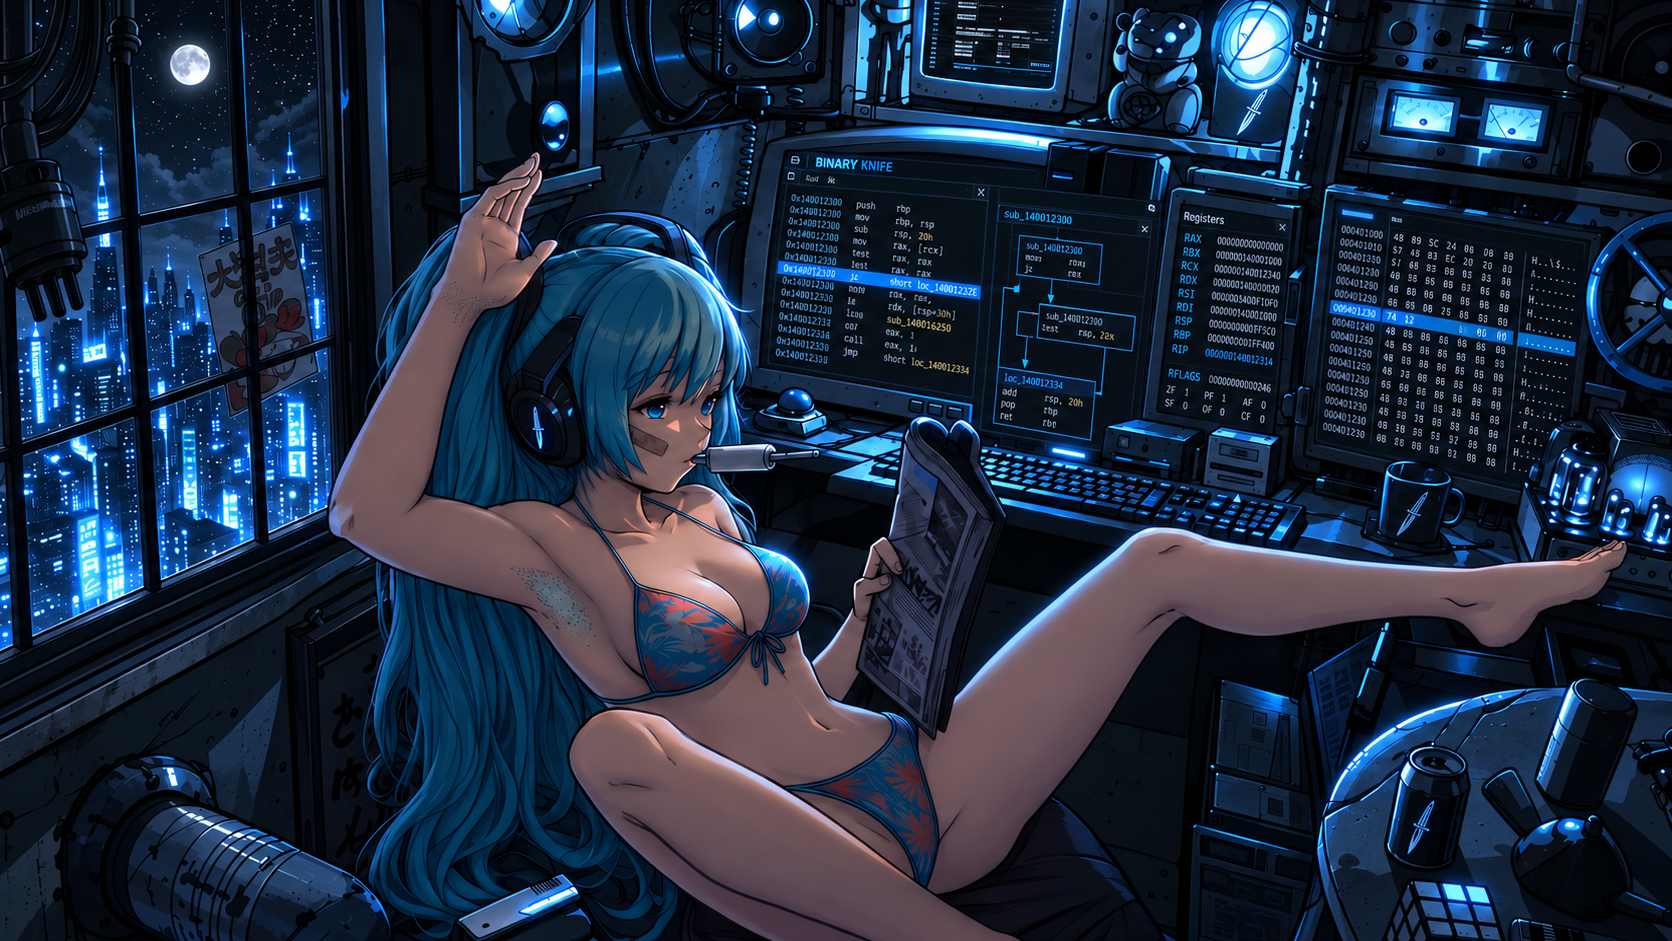
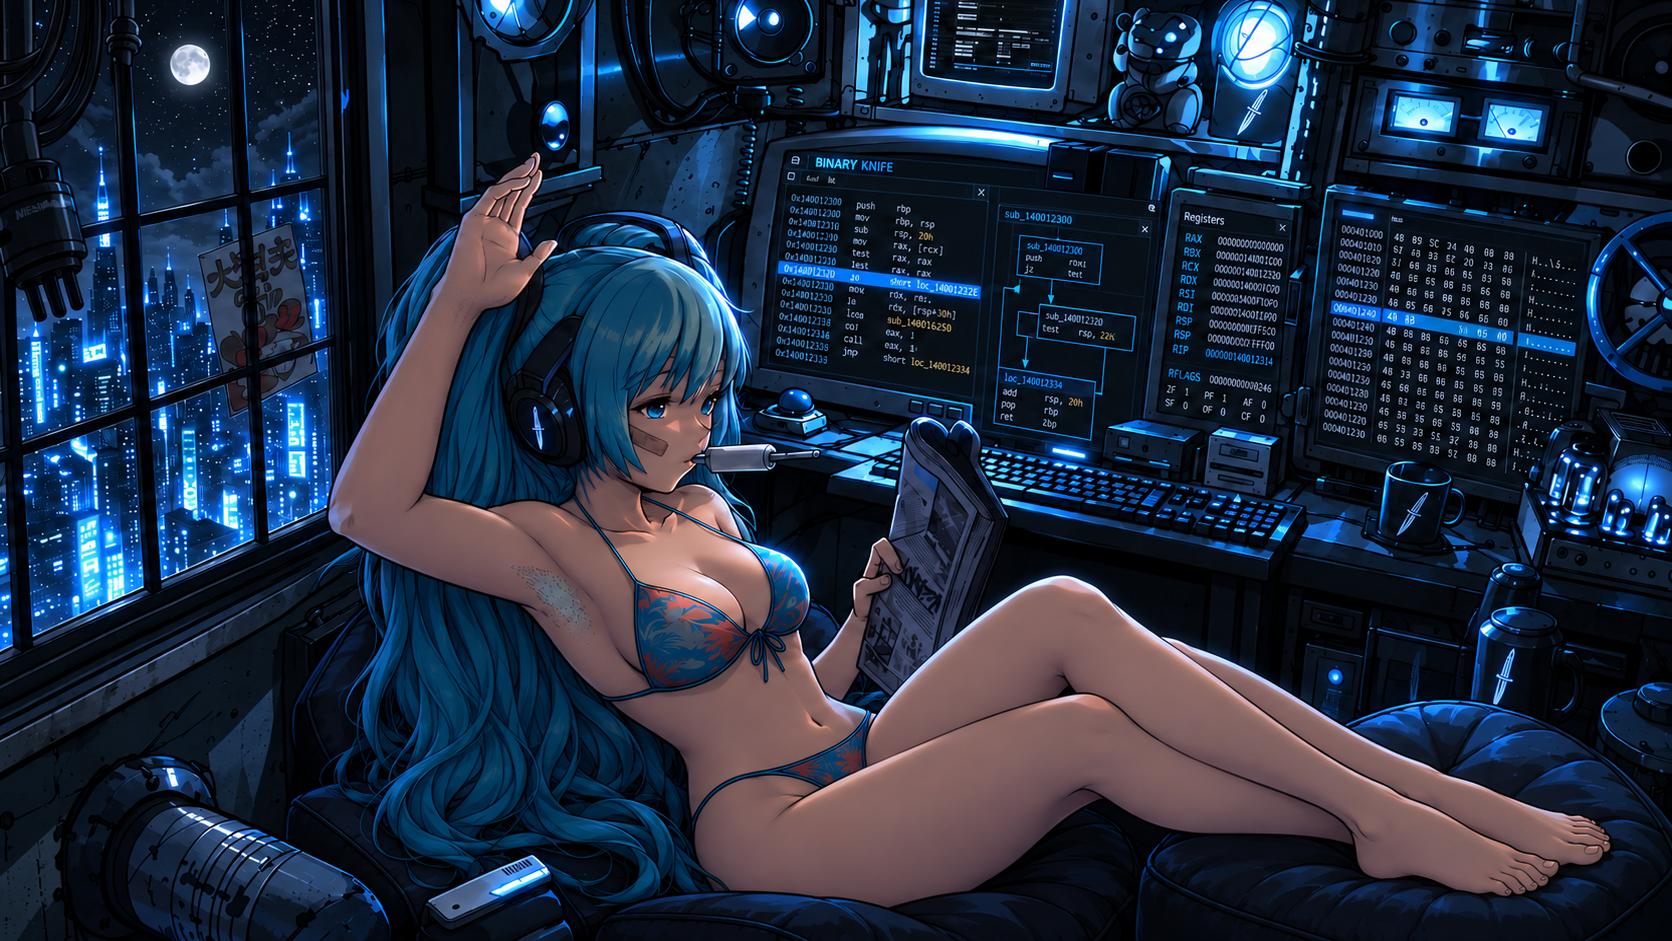
Refresh all four themes with unique corrected wallpaper sets

diff --git a/config/hypr/theme/test_theme_sets.py b/config/hypr/theme/test_theme_sets.py
@@ -21,7 +21,7 @@ class ThemeSetTests(unittest.TestCase):
     def setUp(self):
         test_theme.ThemeTransactionTests.setUp(self)
         root=self.root/'wallpaper';root.mkdir()
-        catalog={design:[f'{design}/{i}.png' for i in range(3)] for design in ('breakpoint','binaryknife')}
+        catalog={design:[f'{design}/{i}.png' for i in range(3)] for design in ('raw','modern','breakpoint','binaryknife')}
         (root/'sets.json').write_text(json.dumps(catalog))
         for design,names in catalog.items():
             for name in names:
@@ -68,6 +68,31 @@ class ThemeSetTests(unittest.TestCase):
         ]
         assigned=wallpaper_sets.bundled(self.root/'wallpaper','binaryknife',monitors)
         self.assertEqual(list(assigned),['DP-1','DP-2','DP-3'])
+
+    def test_each_theme_restores_its_own_three_screen_set(self):
+        for design in ('raw','modern','breakpoint','binaryknife','raw'):
+            self.apply(design)
+            selection=json.loads((self.root/'wallpaper/selection.json').read_text())
+            self.assertEqual({item['path'] for item in selection.values()},
+                             {str(self.root/'wallpaper'/design/f'{i}.png') for i in range(3)})
+
+    def test_refreshed_bundle_takes_precedence_over_stale_import_cache(self):
+        root=self.root/'wallpaper'
+        cached=self.root/'old-cache.png';Image.new('RGB',(16,9),'red').save(cached)
+        saved=copy.deepcopy(self.original)
+        saved['DP-1']['path']=str(cached)
+        (root/'profiles.json').write_bytes(wallpaper_sets.encode({'version':1,'themes':{'breakpoint':saved}}))
+        target,_=wallpaper_sets.switching(root,'raw','breakpoint',{},self.monitors)
+        self.assertEqual(target['DP-1'],self.original['DP-1'])
+
+    def test_custom_wallpaper_still_prefers_its_cache(self):
+        root=self.root/'wallpaper'
+        cached=self.root/'custom-cache.png';Image.new('RGB',(16,9),'blue').save(cached)
+        original=self.root/'personal.png';Image.new('RGB',(16,9),'red').save(original)
+        choice={'path':str(cached),'original':str(original),'fit':'contain'}
+        (root/'profiles.json').write_bytes(wallpaper_sets.encode({'version':1,'themes':{'modern':{'DP-1':choice}}}))
+        target,_=wallpaper_sets.switching(root,'raw','modern',{},self.monitors)
+        self.assertEqual(target['DP-1'],choice)
 
     def test_round_trip_restores_custom_wallpapers_and_effect_colors(self):
         self.apply('binaryknife')

diff --git a/installer/install.py b/installer/install.py
@@ -84,14 +84,23 @@ def render(stage, home, monitors, profile='auto', startup=True):
         (stage/'control_center/workspaces.conf').write_text('\n'.join(lines)+'\n')
     choice=json.loads((stage/'wallpaper/default.json').read_text())
     wallpaper=str(target/'wallpaper'/choice['image'])
-    outputs=[m['name'] for m in active]
+    design=json.loads((stage/'theme/state.json').read_text()).get('design','modern')
+    sets=json.loads((stage/'wallpaper/sets.json').read_text())
+    artwork=sets.get(design,[choice['image']])
+    if not artwork or not all((stage/'wallpaper'/name).is_file() for name in artwork):
+        raise ValueError('The default theme wallpaper set is incomplete.')
+    outputs=[m['name'] for m in sorted(active,key=lambda m:(m.get('x',0),m.get('y',0),m['name']))]
     if profile=='original':outputs=list(json.loads((REPO/'profiles/xetal-original/selection.json').read_text()))
-    selection={name:{'path':wallpaper,'original':wallpaper,'fit':choice['fit']} for name in outputs}
+    selection={}
+    for index,name in enumerate(outputs):
+        path=str(target/'wallpaper'/artwork[index%len(artwork)])
+        selection[name]={'path':path,'original':path,'fit':choice['fit']}
     (stage/'wallpaper/selection.json').write_text(json.dumps(selection,indent=2)+'\n')
     # The wildcard also covers outputs connected after installation.
     lines=['ipc = true','splash = false','']
     for name in ['',*outputs]:
-        lines+=['wallpaper {',f'    monitor = {name}',f'    path = {wallpaper}',f'    fit_mode = {choice["fit"]}','}','']
+        path=selection[name]['path'] if name else wallpaper
+        lines+=['wallpaper {',f'    monitor = {name}',f'    path = {path}',f'    fit_mode = {choice["fit"]}','}','']
     (stage/'wallpaper/hyprpaper.conf').write_text('\n'.join(lines))
     if not startup:
         p=stage/'hyprland.conf';p.write_text(p.read_text().replace('exec-once = ~/.config/hypr/scripts/startup-scene.sh --login','# Login animation disabled by installer; Super+D remains available.'))

diff --git a/config/hypr/theme/wallpaper_sets.py b/config/hypr/theme/wallpaper_sets.py
@@ -58,14 +58,18 @@ def switching(root, previous_design, design, current, monitors):
     saved = value['themes'].get(design, {})
     if not isinstance(saved, dict): raise ValueError('The saved theme wallpaper selection is invalid.')
     defaults = bundled(root, design, monitors)
+    bundled_paths = {path.resolve() for path in catalog(root).get(design, [])}
     target = copy.deepcopy(saved)
     for monitor in screens(monitors):
         name = monitor['name']
         choice = saved.get(name, {})
         if not isinstance(choice, dict): raise ValueError('Invalid saved wallpaper choice.')
-        # Cached images are portable within this profile; retain the original as
-        # a fallback if a cache entry was removed manually.
-        available = next((choice.get(key) for key in ('path', 'original')
+        # Bundled artwork can be refreshed by an update. Do not resurrect an old
+        # imported copy of it; personal images still prefer their portable cache.
+        original = choice.get('original')
+        bundled_original = isinstance(original, str) and Path(original).resolve() in bundled_paths
+        order = ('original', 'path') if bundled_original else ('path', 'original')
+        available = next((choice.get(key) for key in order
                           if isinstance(choice.get(key), str) and Path(choice[key]).is_file()), None)
         if available:
             target[name] = {**choice, 'path': available}

diff --git a/tests/test_installer.py b/tests/test_installer.py
@@ -38,6 +38,8 @@ class InstallerTests(unittest.TestCase):
         self.assertEqual(set(state),{'HDMI-A-1','eDP-1'})
         self.assertTrue(state['eDP-1']['path'].startswith(str(self.target)))
         self.assertEqual(state['eDP-1']['path'],state['eDP-1']['original'])
+        self.assertTrue(state['HDMI-A-1']['path'].endswith('/modern/workstation-1.png'))
+        self.assertTrue(state['eDP-1']['path'].endswith('/modern/workstation-2.png'))
         for p in self.stage.rglob('*'):
             if not p.is_file():continue
             try:text=p.read_text()
@@ -147,7 +149,7 @@ class InstallerTests(unittest.TestCase):
         forbidden={'mozilla','recently-used.xbel','places.sqlite','cookies.sqlite','.parentlock','user-places.xbel'}
         for p in install.PAYLOAD.rglob('*'):
             if '__pycache__' in p.parts:continue
-            if '.build' in p.parts:
+            if any(part in ('.build','build') for part in p.parts) or p.suffix in {'.so','.o','.a'}:
                 result=install.subprocess.run(['git','check-ignore','--quiet',str(p)],cwd=REPO)
                 self.assertEqual(result.returncode,0,str(p))
                 continue

diff --git a/README.md b/README.md
@@ -64,7 +64,7 @@ The default install adapts to your monitors, resolution, placement and scale. Wi
 - Give the **entire Apps menu** its own background image, follow the desktop wallpaper, or use a plain background. Adjust **background visibility** with a slider.
 - Set **icon backgrounds and group strips** anywhere from transparent to opaque. Group strips support their own **image or animated GIF**, with preferences saved separately for each design.
 - **Show or hide shortcut names and hotkeys** globally. The remaining icon content centers automatically; small tiles stay icon-only.
-- Assign wallpapers separately to each monitor and each theme, choose their fit mode, or apply the included three-screen **BreakPoint** and **Binary Knife** workstation sets. Switching themes restores its saved wallpapers and effect colors, including custom flame colors. The original artwork remains available.
+- Every theme includes its own three-screen wallpaper set: **Xetal Raw**, **Xetal Modern**, **BreakPoint** and **Binary Knife**. The twelve illustrations have corrected character anatomy, and Modern has three distinct new studio scenes. Assign custom wallpapers and fit modes per monitor; switching themes restores their saved artwork and effect colors, including custom flames. Fresh installations assign Modern's set in display order.
 
 | Theme design | Menu surfaces, artwork & profile |
 | :---: | :---: |
